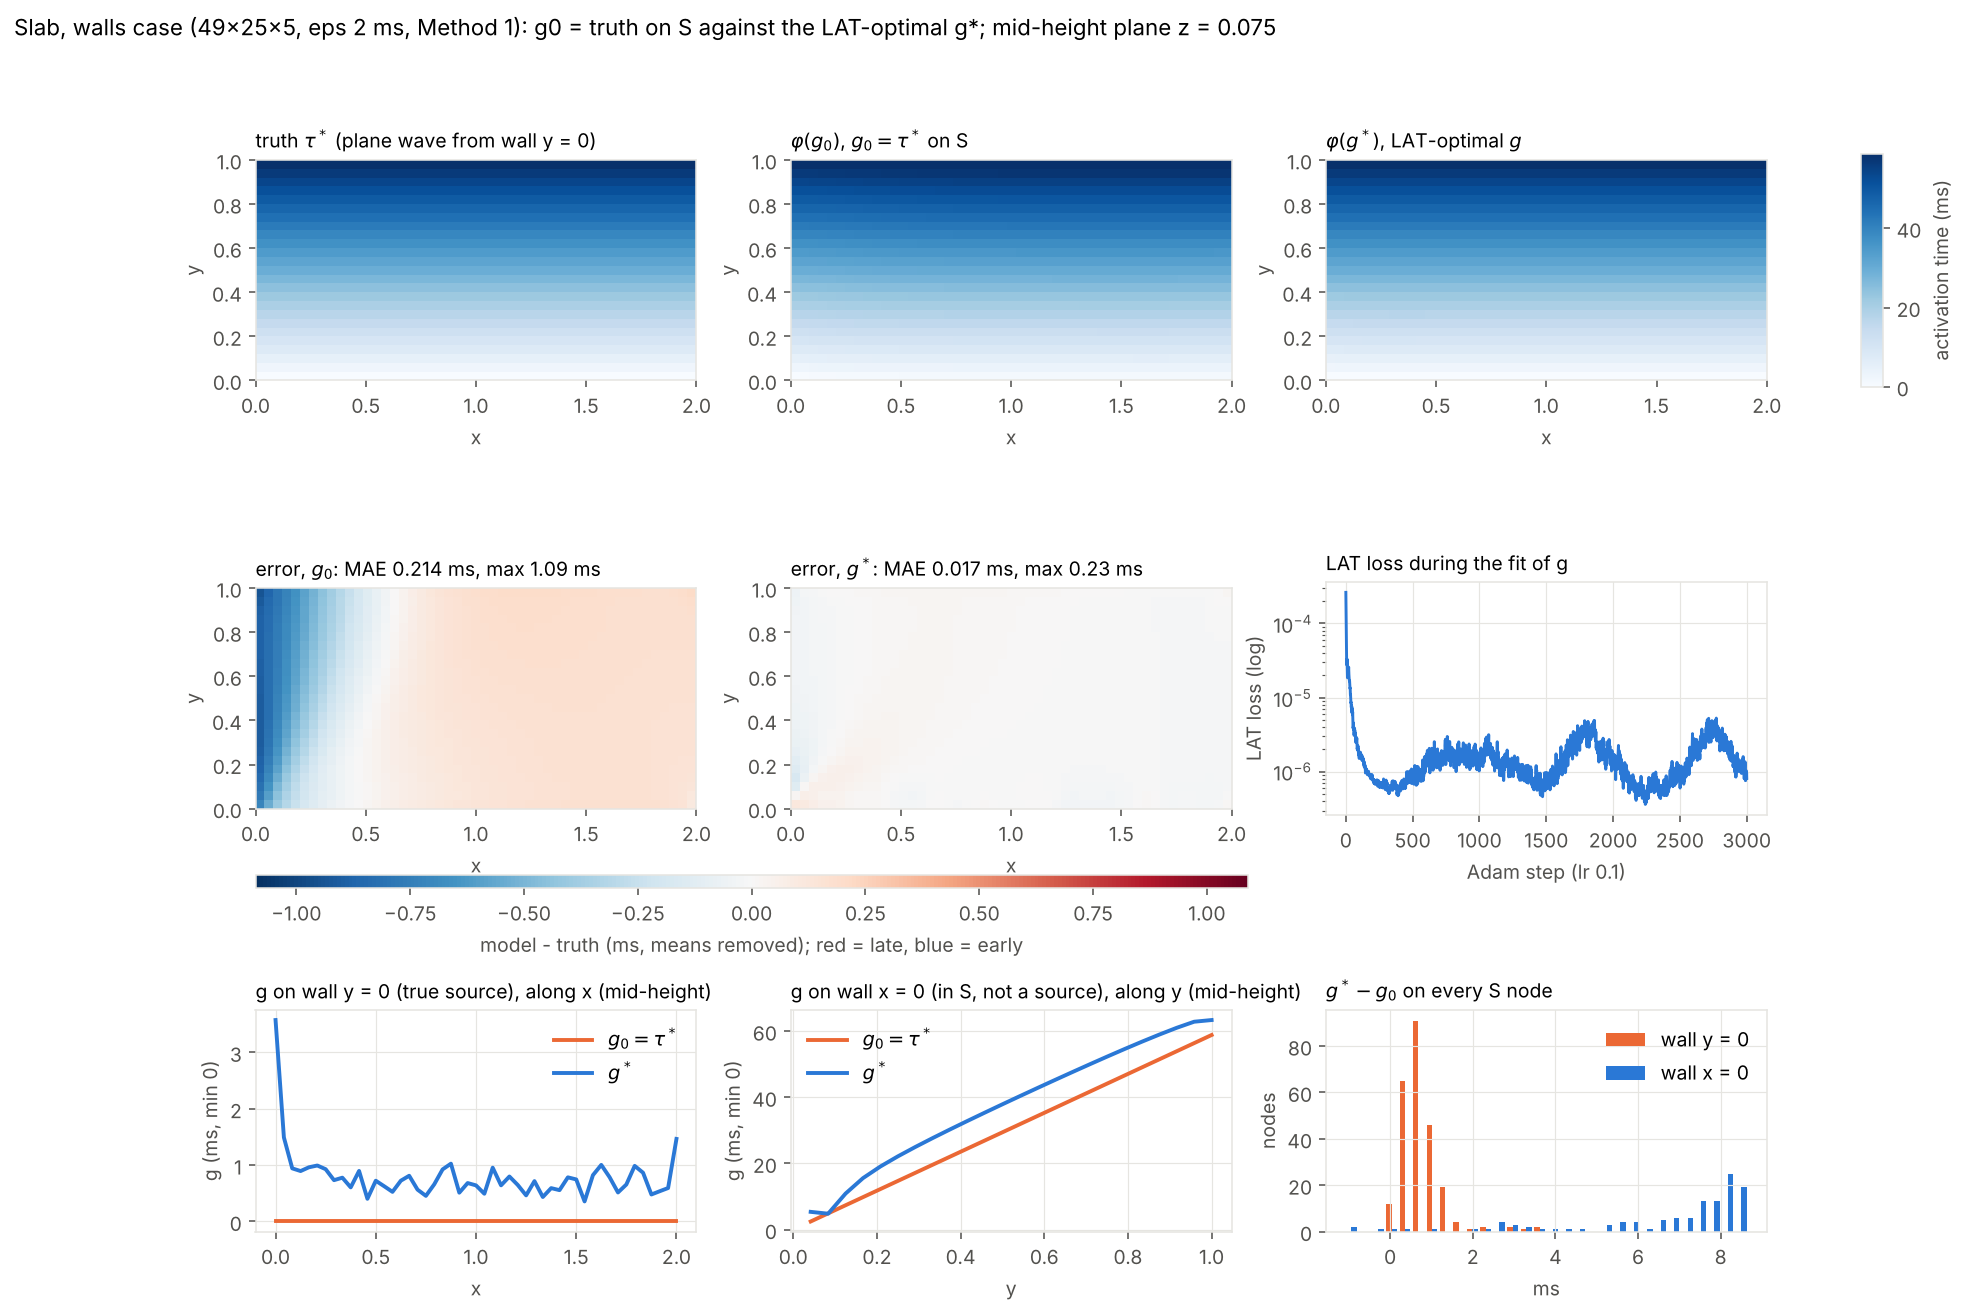
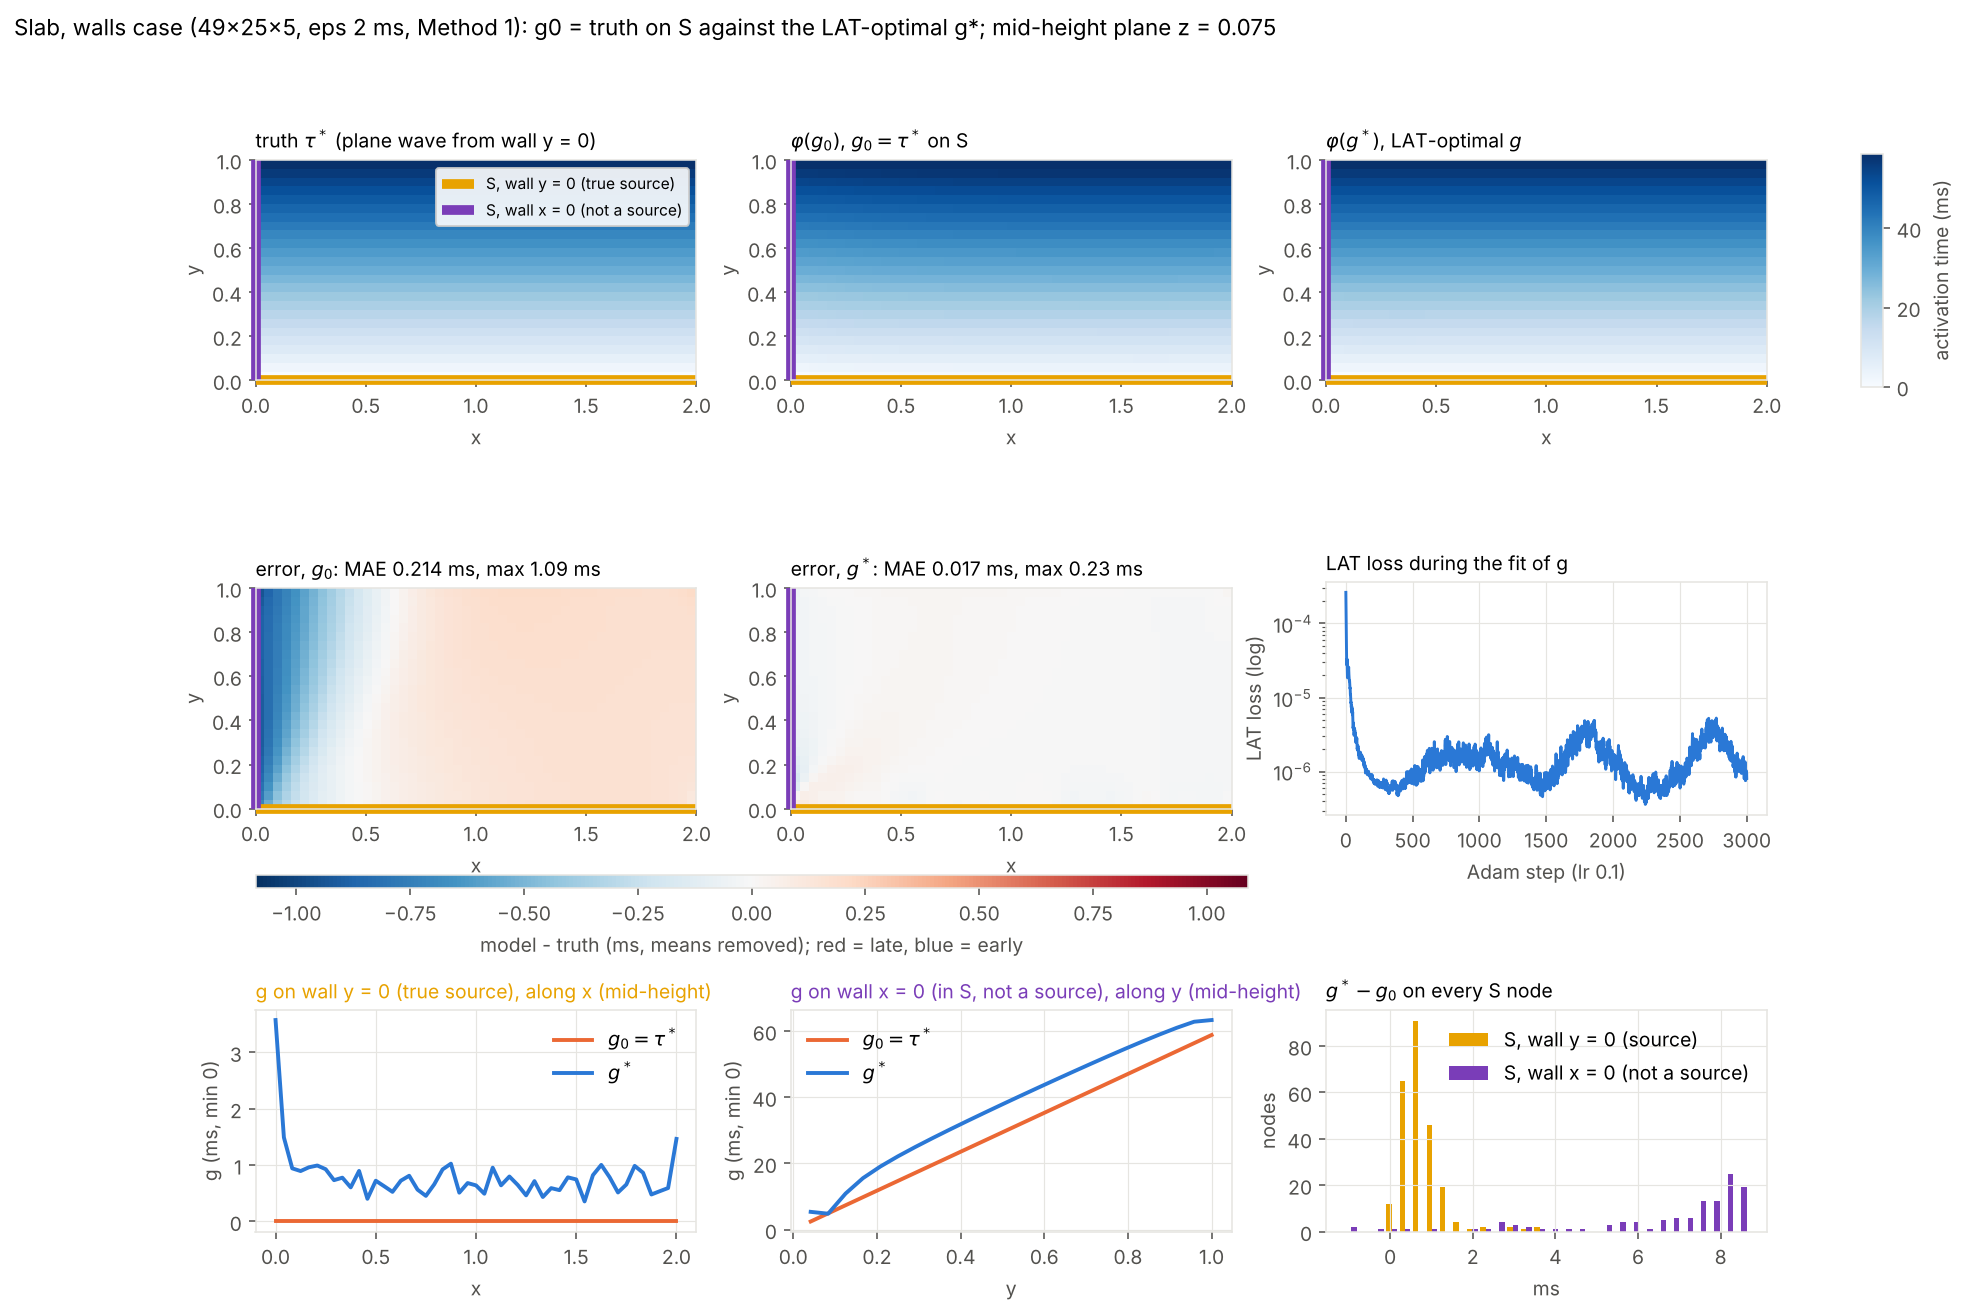
plot_slab_gstar: mark S on the slab maps
Claude-Session: https://claude.ai/code/session_0165HnNHC4nJH5gTAFXrQxAe

diff --git a/tools/camps_gstar/plot_slab_gstar.py b/tools/camps_gstar/plot_slab_gstar.py
@@ -26,6 +26,19 @@ def plane(f):
     return a
 
 
+SRC_C, NSRC_C = '#e8a200', '#7a3db8'
+
+
+def mark_s(ax, legend=False):
+    """S on the mid-height plane: wall y = 0 (true source) and wall x = 0 (in S, not a source)."""
+    ax.plot([xs[0], xs[-1]], [ys[0], ys[0]], color=SRC_C, lw=5, clip_on=False, solid_capstyle='butt',
+            label='S, wall y = 0 (true source)')
+    ax.plot([xs[0], xs[0]], [ys[0], ys[-1]], color=NSRC_C, lw=5, clip_on=False, solid_capstyle='butt',
+            label='S, wall x = 0 (not a source)')
+    if legend:
+        ax.legend(frameon=True, fontsize=8, loc='upper right', framealpha=0.9)
+
+
 ext = (xs[0], xs[-1], ys[0], ys[-1])
 cen = lambda f: (f - f.mean()) - (tau - tau.mean())
 e0, es = cen(p0), cen(ps)
@@ -38,6 +51,7 @@ for j, (f, ttl) in enumerate(((tau, 'truth $\\tau^*$ (plane wave from wall y = 0
                               (ps, '$\\varphi(g^*)$, LAT-optimal $g$'))):
     ax = fig.add_subplot(gs_[0, j]); row0.append(ax)
     im = ax.imshow(plane(f), origin='lower', extent=ext, cmap='Blues', vmin=0, vmax=tau.max(), aspect='equal')
+    mark_s(ax, legend=(j == 0))
     ax.set_title(ttl, loc='left', fontsize=10); ax.set_xlabel('x'); ax.set_ylabel('y')
 fig.colorbar(im, cax=fig.add_subplot(gs_[0, 3]), label='activation time (ms)')
 lim = max(np.abs(e0).max(), np.abs(es).max())
@@ -45,6 +59,7 @@ for j, (e, ttl) in enumerate(((e0, f'error, $g_0$: MAE {mae0:.3f} ms, max {np.ab
                               (es, f'error, $g^*$: MAE {maes:.3f} ms, max {np.abs(es).max():.2f} ms'))):
     ax = fig.add_subplot(gs_[1, j]); row1.append(ax)
     im2 = ax.imshow(plane(e), origin='lower', extent=ext, cmap='RdBu_r', vmin=-lim, vmax=lim, aspect='equal')
+    mark_s(ax)
     ax.set_title(ttl, loc='left', fontsize=10); ax.set_xlabel('x'); ax.set_ylabel('y')
 cbx = row1[0].inset_axes([0.0, -0.36, 2.25, 0.06]); fig.colorbar(im2, cax=cbx, orientation='horizontal', label='model - truth (ms, means removed); red = late, blue = early')
 ax = fig.add_subplot(gs_[1, 2])
@@ -59,13 +74,13 @@ for j, (sel, xax, lab) in enumerate(((np.isclose(vs[:, 1], 0) & np.isclose(vs[:,
     o = np.argsort(vs[sel, xax])
     ax.plot(vs[sel, xax][o], g0n[sel][o], '-', color=ORANGE, lw=2, label='$g_0 = \\tau^*$')
     ax.plot(vs[sel, xax][o], gsn[sel][o], '-', color=BLUE, lw=2, label='$g^*$')
-    ax.set_title(f'g on {lab} (mid-height)', loc='left', fontsize=10)
+    ax.set_title(f'g on {lab} (mid-height)', loc='left', fontsize=10, color=(SRC_C if j == 0 else NSRC_C))
     ax.set_xlabel('x' if xax == 0 else 'y'); ax.set_ylabel('g (ms, min 0)'); ax.grid(color=GRID, lw=.6)
     ax.legend(frameon=False)
 ax = fig.add_subplot(gs_[2, 2])
 d = gsn - g0n
 on_y0 = np.isclose(vs[:, 1], 0)
-ax.hist([d[on_y0], d[~on_y0]], bins=30, color=[ORANGE, BLUE], label=['wall y = 0', 'wall x = 0'], stacked=False)
+ax.hist([d[on_y0], d[~on_y0]], bins=30, color=[SRC_C, NSRC_C], label=['S, wall y = 0 (source)', 'S, wall x = 0 (not a source)'], stacked=False)
 ax.set_title('$g^* - g_0$ on every S node', loc='left', fontsize=10); ax.set_xlabel('ms'); ax.set_ylabel('nodes')
 ax.legend(frameon=False); ax.grid(color=GRID, lw=.6)
 fig.suptitle('Slab, walls case (49x25x5, eps 2 ms, Method 1): g0 = truth on S against the LAT-optimal g*; mid-height plane z = %.3f' % zm,
